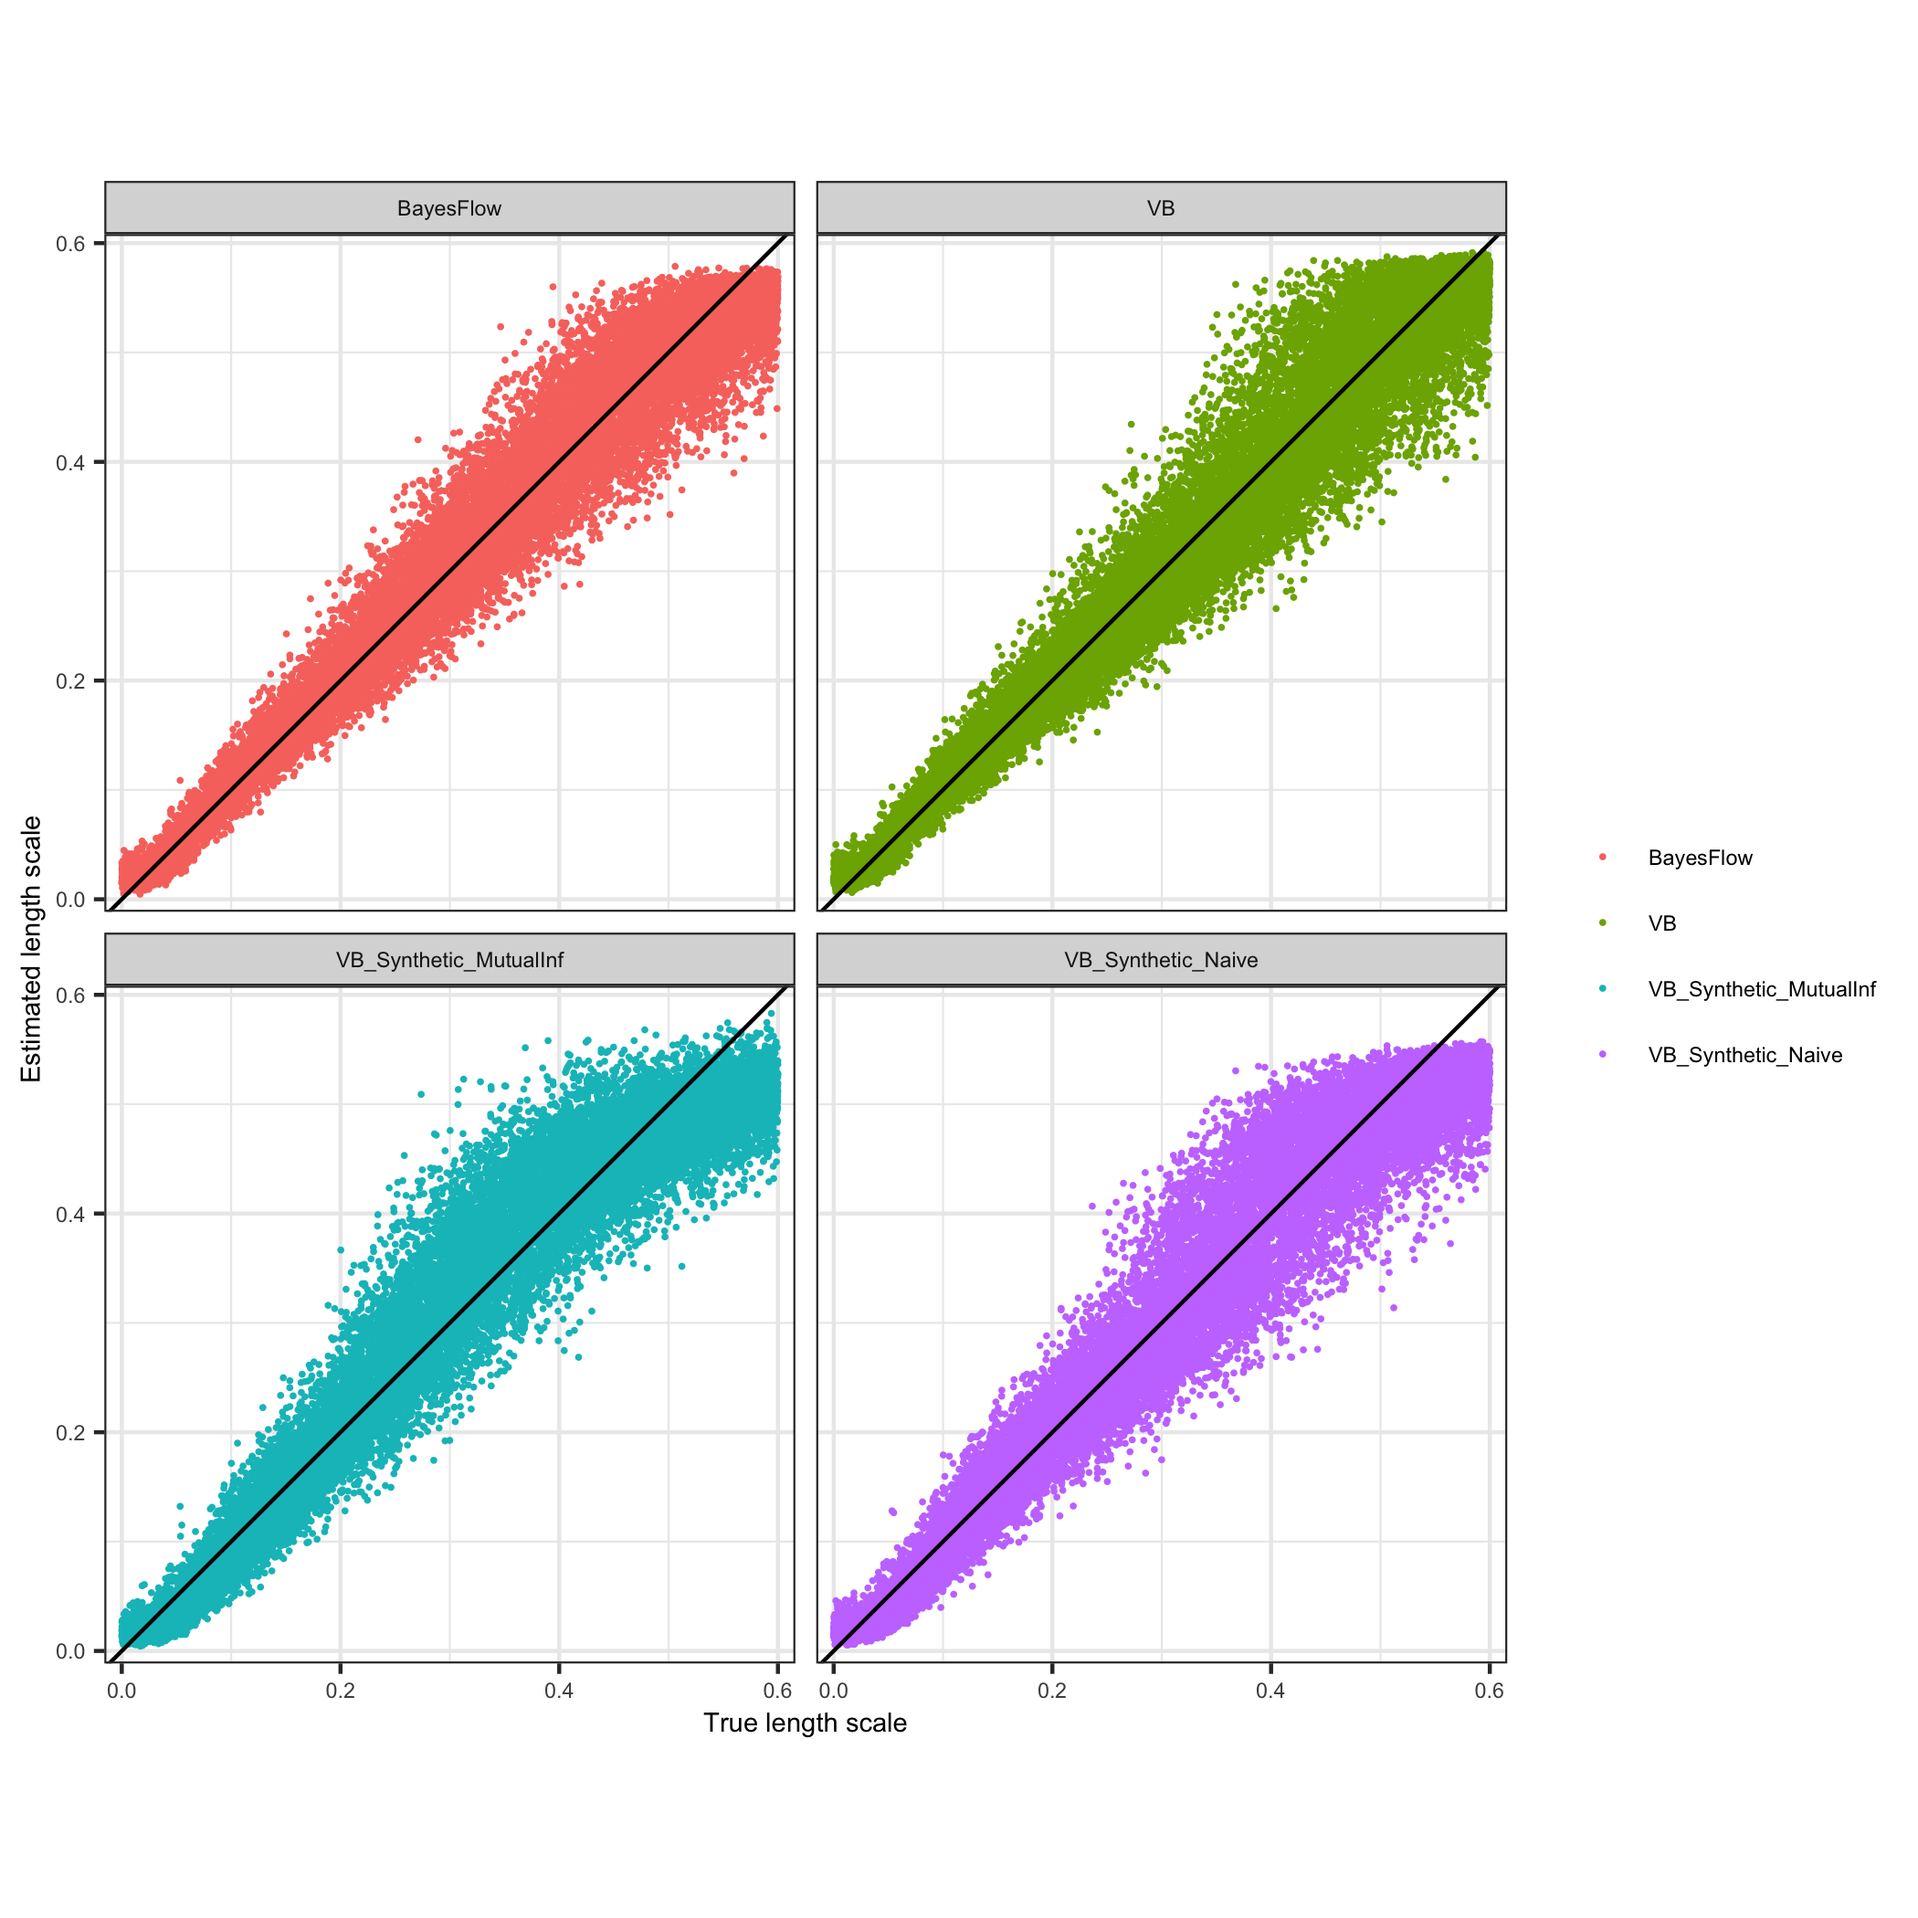
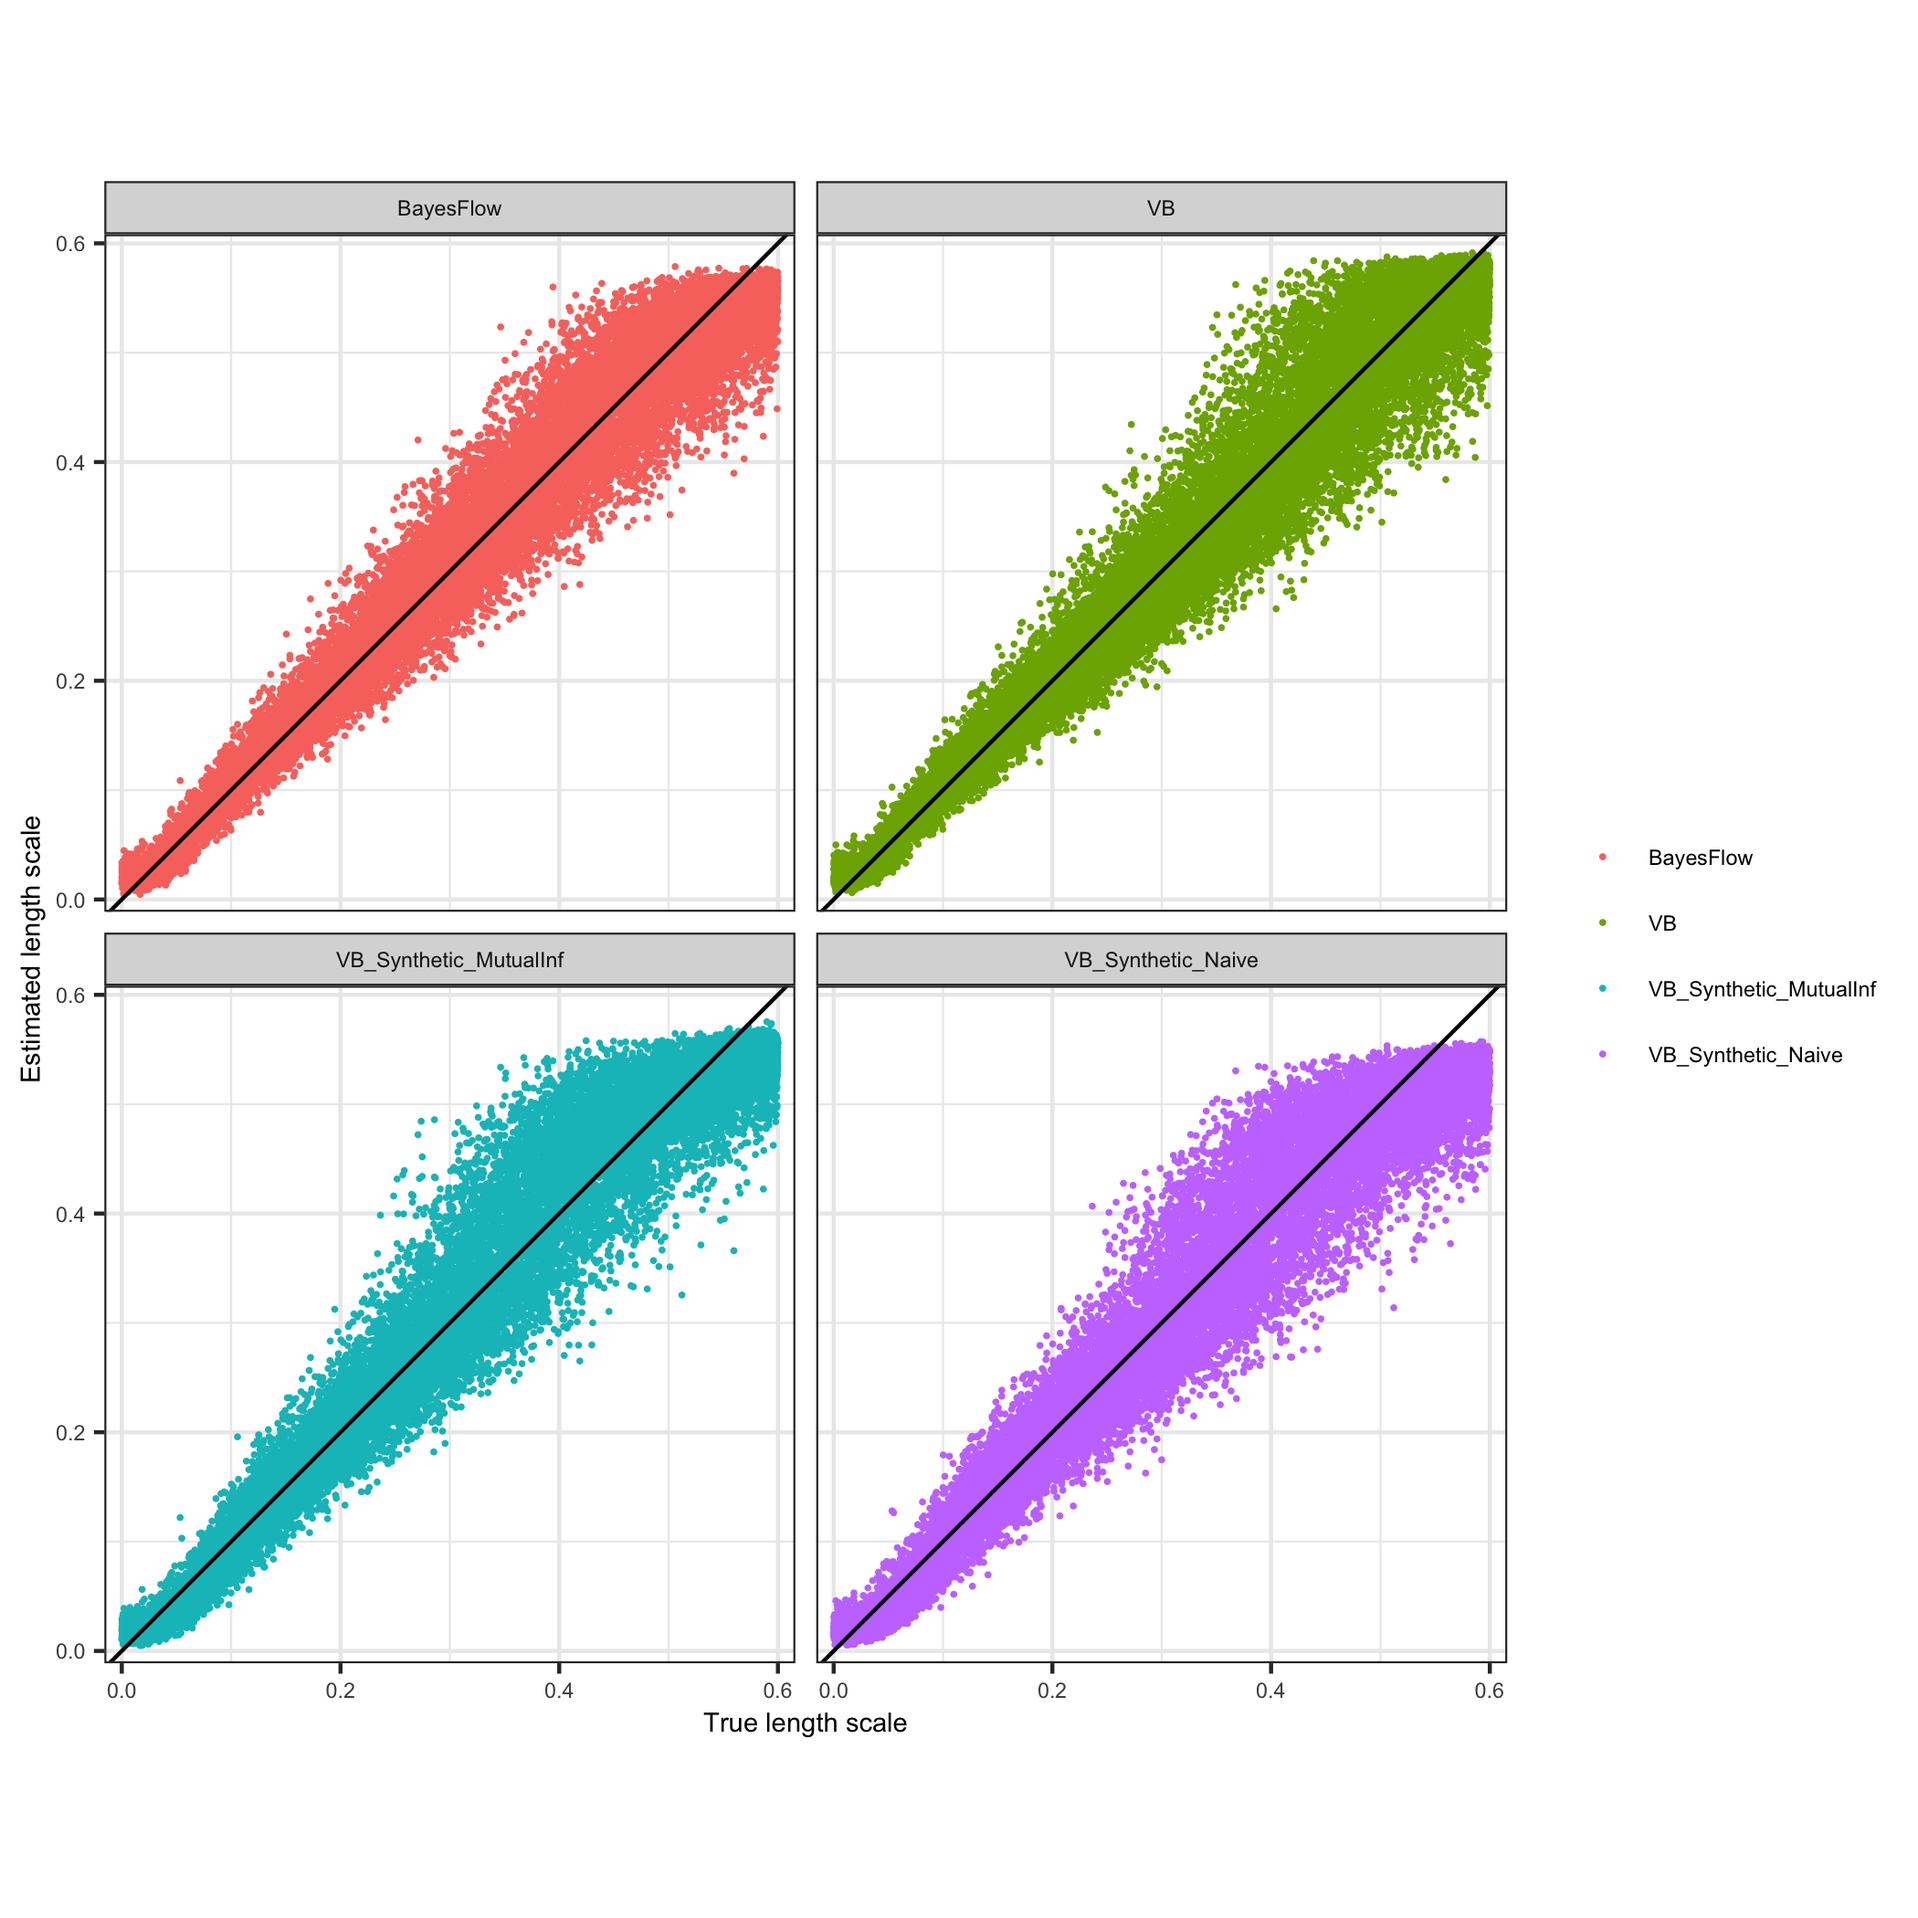
Replot

diff --git a/fig/results_table.tex b/fig/results_table.tex
@@ -2,7 +2,7 @@
 \begin{document}
 \thispagestyle{empty}
 % latex table generated in R 4.3.2 by xtable 1.8-4 package
-% Tue Feb 27 01:58:33 2024
+% Tue Feb 27 02:13:36 2024
 \begin{table}[ht]
 \centering
 \begin{tabular}{rlrrrrr}
@@ -11,7 +11,7 @@
   \hline
 1 & BayesFlow & 0.0338 & 0.0251 & 0.1307 & 0.9064 & 0.0182 \\ 
   2 & VB & 0.0371 & 0.0268 & 0.1552 & 0.7708 & 0.0170 \\ 
-  3 & VB\_Synthetic\_MutualInf & 0.0445 & 0.0337 & 0.2056 & 0.7234 & 0.0205 \\ 
+  3 & VB\_Synthetic\_MutualInf & 0.0406 & 0.0302 & 0.1652 & 0.7863 & 0.0192 \\ 
   4 & VB\_Synthetic\_Naive & 0.0412 & 0.0310 & 0.1818 & 0.7571 & 0.0194 \\ 
    \hline
 \end{tabular}
